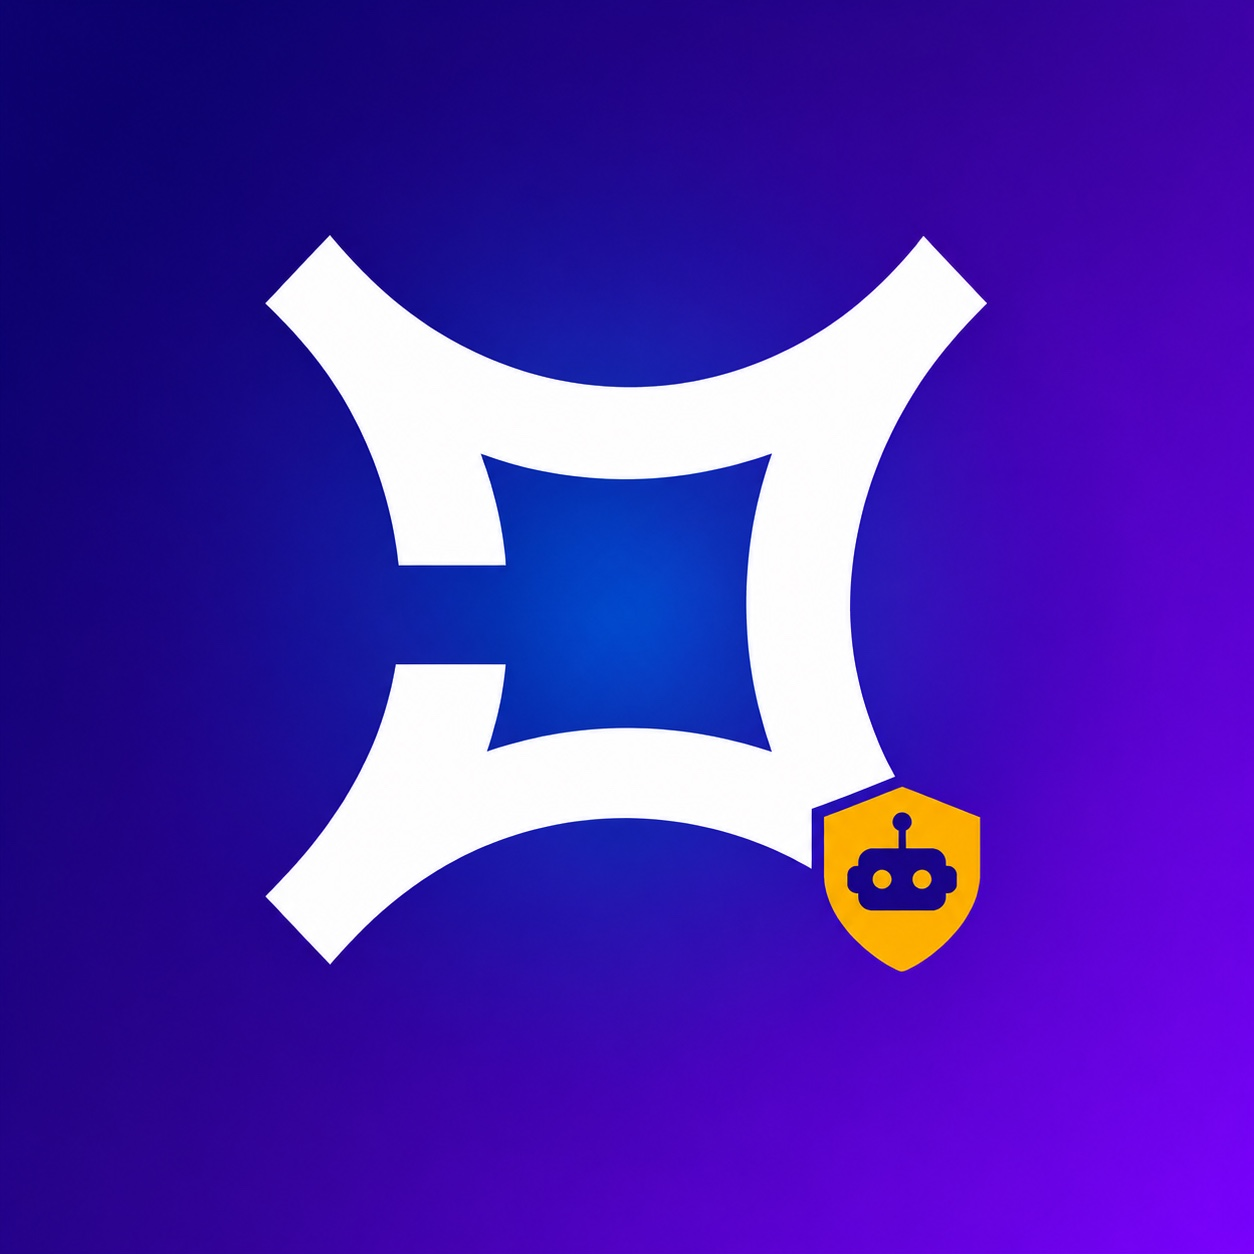
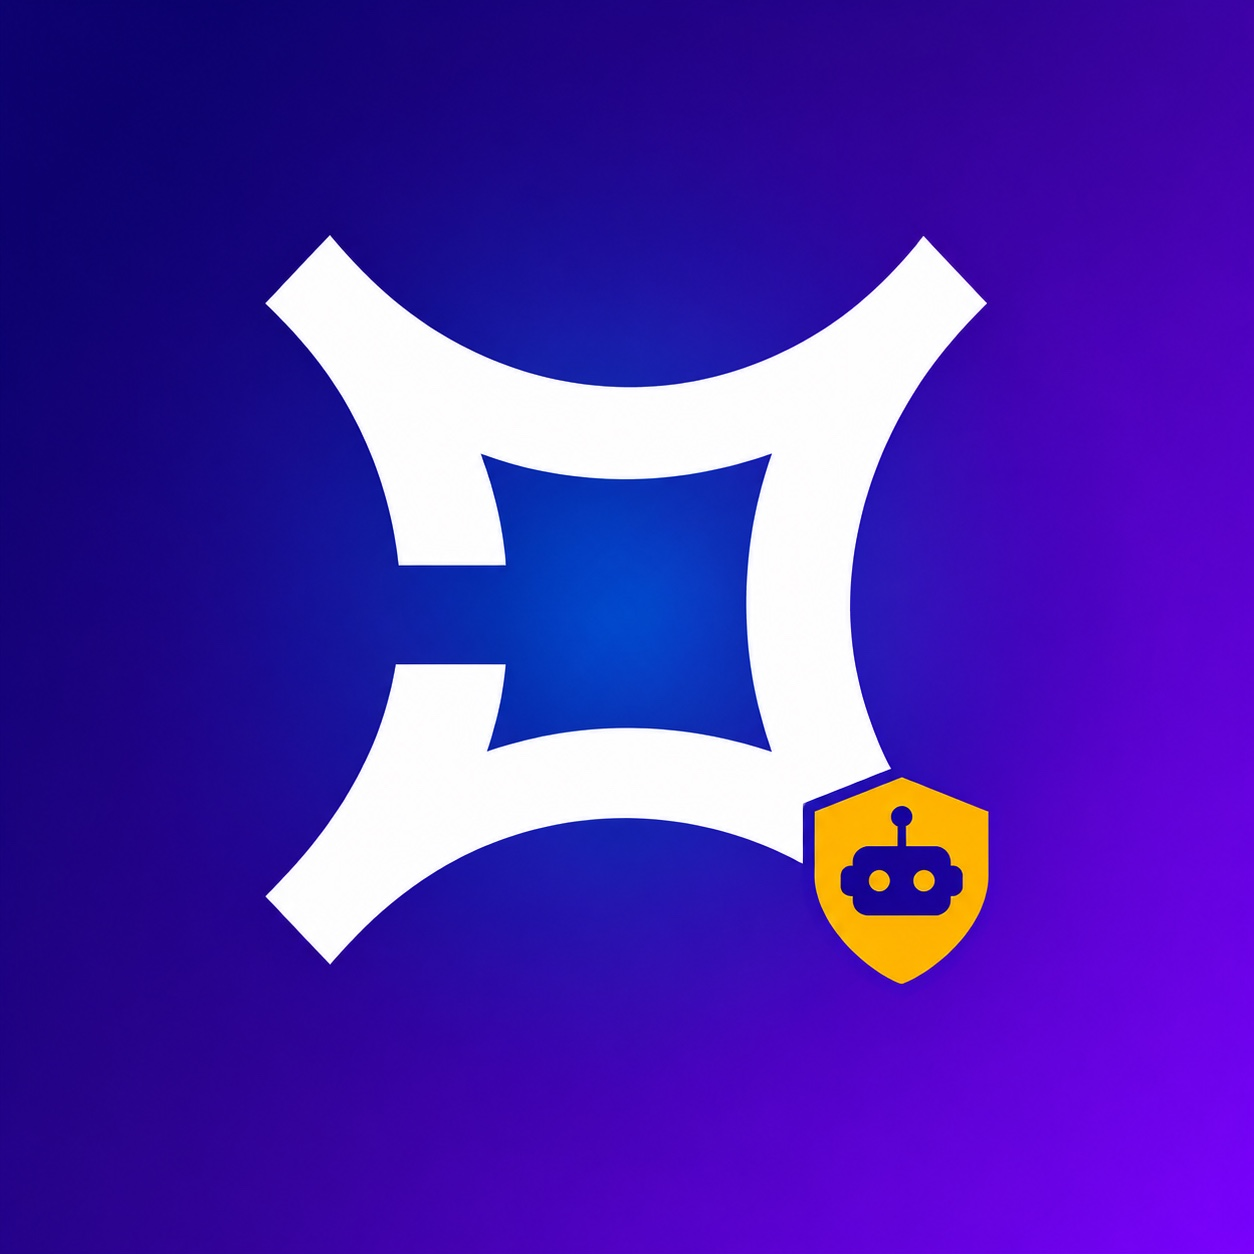
Enlarge the Telegram bot profile badges

Changed region(s): [[0.622, 0.5909, 0.8086, 0.8086]]

diff --git a/NOTES.md b/NOTES.md
@@ -2,6 +2,8 @@
 
 ## Current status
 
+Both production Telegram bot profile photos use the original Digimium backgrounds with slightly larger badges. The customer bot has the cyan robot and Admin Orders has the gold shield.
+
 The production Digimium Admin Orders bot has three private topics with the topic sidebar enabled. Orders receives new storefront orders. Running HUB Orders receives new API Key orders, payment receipts and approval confirmations. Account Registration receives new website signups. Standard storefront payment and service delivery continue through the existing workflow. The full website payment and fulfillment rollout stays deferred.
 
 Running HUB checkout requires a signed-in Digimium account. Signed-out buyers can choose Create account or Sign in from checkout. The shared Admin bot sends a private approval confirmation with the order reference and verified Telegram username or a registered email when available.
@@ -99,6 +101,8 @@ The catalog shows two product cards per row up to 700px and three above. Hosting
 The shared catalog starts with 54 products and 104 plans, including the 50 approved visible plans. The bilingual storefront, cart, Telegram checkout, mobile UI and existing brand assets are included. On Hostinger, MySQL persists admin changes and uploaded logo bytes. The earlier ChatGPT Sites target retains separate D1/R2 storage and ChatGPT authorization. Its live data is outside Git.
 
 ## Last thing done
+
+Enlarged the robot and shield badges about 10–13%. Verified that decoded pixels outside each badge edit match the earlier assets, then updated both Telegram profiles and confirmed their new photos.
 
 Added grouped owner notifications with compact order references, product and plan names, totals and protected Admin links. Telegram checkout drafts show the verified @username if available. The placement response exposes only the Telegram username field. Legacy signed Running HUB approvals still work in their original private chat/topic. Updated the customer login bot and Admin Orders bot profile photos using the Digimium mark with distinct bot badges. The original production webhooks remain active. Node 24 standalone build, typecheck, strict lint, 103 unit tests, and the disposable Running HUB, notifications and commerce integration suites passed.
 
@@ -263,6 +267,8 @@ Added the Node 24/Next.js standalone build, Hostinger database schema and storag
 Tested the Node 24 production server with disposable MariaDB, including concurrent saves, hidden plan/description filtering, image bytes, and data surviving an application restart. Verified sign-in, signed-out and forged-header denial, CSRF checks, sign-out and session invalidation, and a simulated HTTPS proxy with a Secure HttpOnly cookie. Unit tests, type checks, the separate Sites build, and local Sites catalog/logo integration suites passed. No real customer message was sent.
 
 ## Next steps
+
+- Use the updated profile photos as the current source assets for future Telegram profile changes.
 
 - Review the next legitimate signup, ordinary order and Running HUB order in their three private owner topics. Keep the testing website payment and fulfillment upgrade deferred until the owner asks to roll it out.
 
